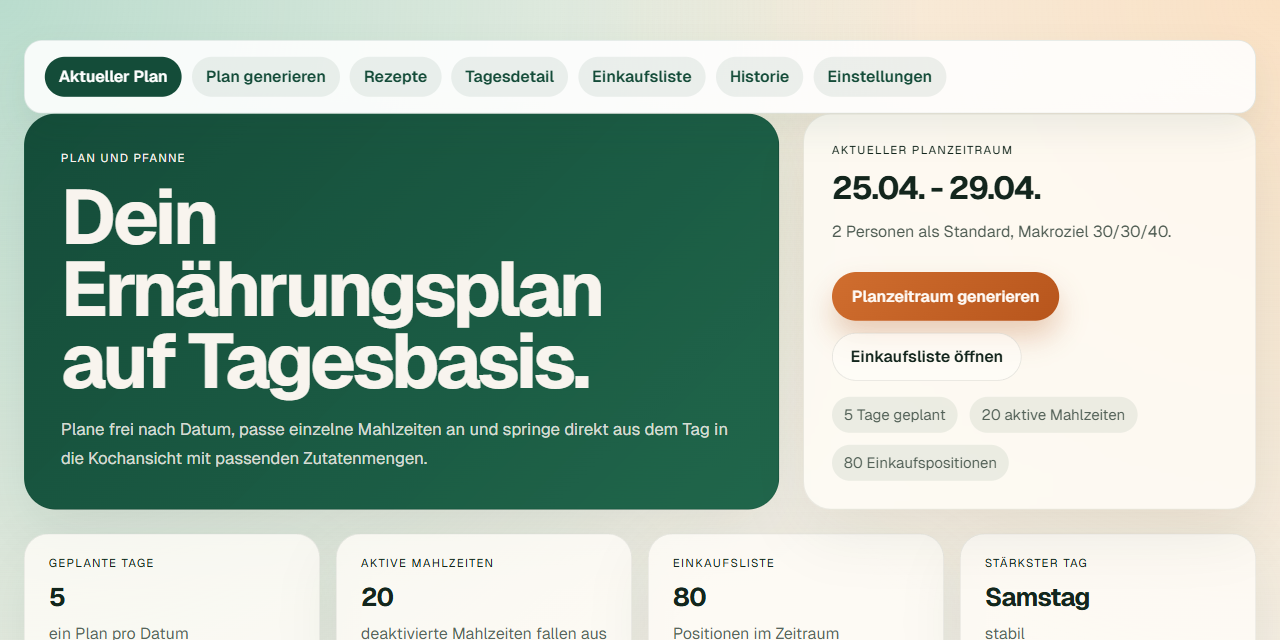
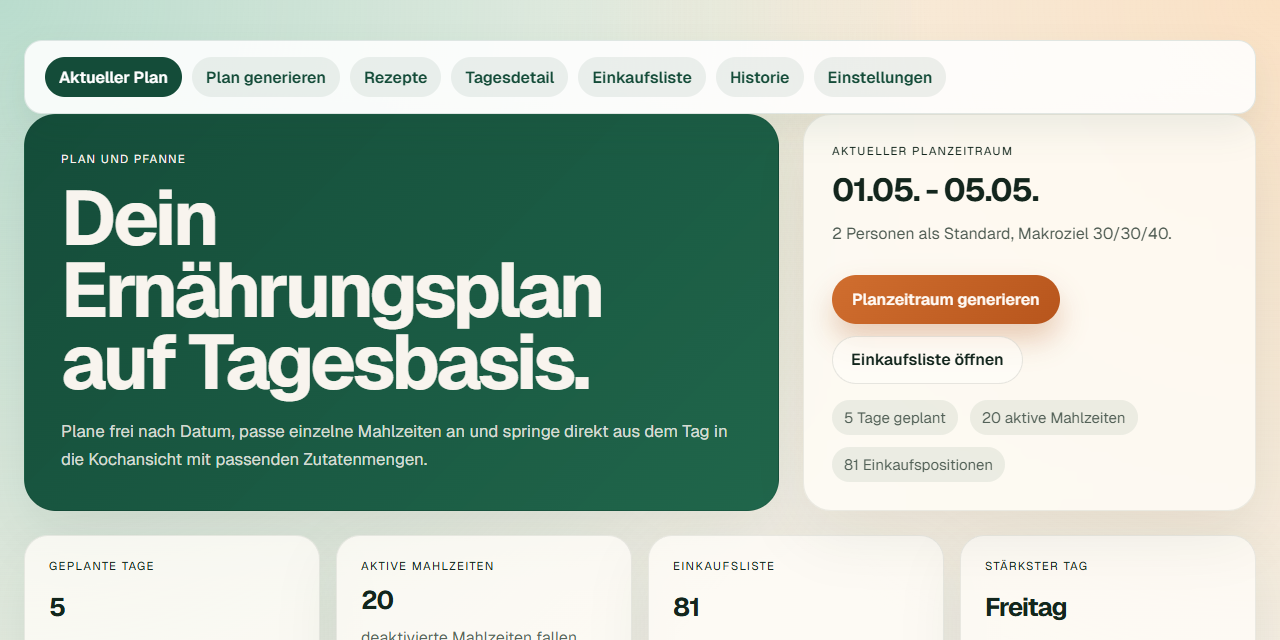
docs: aktualisiere README nach Rezept-UI

diff --git a/README.md b/README.md
@@ -6,7 +6,7 @@
 
 Die App unterstützt Dich dabei, glutenfreie Mahlzeiten über frei wählbare Datumsbereiche zu planen, einzelne Tage nachzubearbeiten und aus dem Plan heraus direkt zu kochen. Du erzeugst Tagespläne mit Frühstück, Mittagessen, Abendessen und optionalen Snacks, passt Personenzahlen oder Rezepte pro Mahlzeit an und steuerst, welche Gerichte in der Einkaufsliste landen.
 
-Der aktuelle Plan zeigt Tageskarten mit Kalorien, Makros und aktiven Mahlzeiten. Die Kochansicht skaliert Zutaten temporär auf die gewünschte Personenzahl, ohne den Tagesplan zu verändern. Die Rezeptseite verwaltet, welche Rezepte der Generator je Mahlzeitentyp verwenden darf, inklusive Suche, Details, Gewichtung und Zulassung. Die Einkaufsliste fasst Zutaten über einen Datumsbereich zusammen und berücksichtigt nur aktive, einkaufsrelevante Mahlzeiten.
+Der aktuelle Plan zeigt Tageskarten mit Kalorien, Makros und aktiven Mahlzeiten. Die Kochansicht skaliert Zutaten und Zubereitungsschritte temporär auf die gewünschte Personenzahl, ohne den Tagesplan zu verändern. Die Rezeptseite verwaltet, welche Rezepte der Generator je Mahlzeitentyp verwenden darf, inklusive Suche, Favoriten, Details, Gewichtung und Zulassung. Die Einkaufsliste fasst Zutaten über einen Datumsbereich zusammen und berücksichtigt nur aktive, einkaufsrelevante Mahlzeiten.
 
 ## Screenshots
 
@@ -25,17 +25,19 @@ Der aktuelle Plan zeigt Tageskarten mit Kalorien, Makros und aktiven Mahlzeiten.
 - Planung auf Tagesebene mit frei wählbaren Datumsbereichen
 - pro Datum maximal ein Plan
 - Personenzahl pro Plan und pro einzelner Mahlzeit
-- direkte Kochansicht aus dem Tagesdetail mit temporär skalierbarer Menge
+- direkte Kochansicht aus dem Tagesdetail mit temporär skalierbaren Zutaten und Zubereitungsschritten
 - Einkaufsliste aus einem gewählten Datumsbereich
-- Rezeptsuche, Rezeptdetails, Zulassung und Gewichtung je Mahlzeitentyp
+- 94 eingebaute glutenfreie Seed-Rezepte
+- Rezeptsuche, Favoriten, Rezeptdetails, Zulassung und Gewichtung je Mahlzeitentyp
 
 ## Was aktuell funktioniert
 
 - Aktueller Plan mit Tageskarten und Makroübersicht
 - Plan-Generator mit Startdatum, Enddatum, Personenzahl und Überschneidungswarnung
-- Tagesdetail mit Gerichtstausch, Personenzahl, Ausfall-Schalter, Einkaufslisten-Flag und zusätzlichen Snacks
-- Rezept-Kochansicht mit skalierten Zutaten und Zubereitungsschritten
-- Rezeptauswahl je Mahlzeitentyp mit Suche, Detailansicht und Gewichtung `selten`, `normal`, `häufig`
+- Tagesdetail mit Gerichtstausch, Personenzahl, Ausfall-Schalter, Einkaufslisten-Flag, zusätzlichen Snacks und einklappbaren Zusatzinfos
+- Rezept-Kochansicht mit skalierten Zutaten, mengenfähigen Zubereitungsschritten und kompakten Hinweis-Chips
+- Rezeptauswahl je Mahlzeitentyp mit Suche, Favoriten, Detailansicht und Gewichtung `selten`, `normal`, `häufig`
+- Rezeptübersicht mit Favoriten-Reiter, einklappbarer Anleitung und Umschaltung zwischen Rezeptbibliothek und Planungszulassung
 - Einkaufsliste mit Datumsbereich, aktiven Mahlzeiten und aggregierten Mengen
 - Historie als Tagesliste mit Kopieren historischer Zeiträume
 - Einstellungen für Standard-Personenzahl, Kalorienziel, Makros, Eiweißziel, Snacks, Zielmix, ausgeschlossene Zutaten und Löschen alter Pläne

diff --git a/KI-Wissen-Plan-und-Pfanne/03 Betrieb/Log.md b/KI-Wissen-Plan-und-Pfanne/03 Betrieb/Log.md
@@ -590,3 +590,12 @@
   `npm test` erfolgreich,
   `npm run lint` erfolgreich,
   `npm run build` erfolgreich.
+
+## [2026-04-30] dokumentation | README nach Rezept- und UI-Änderungen geprüft
+- `README.md` wurde gegen aktuellen Projektstatus, Produktlogik, Routen und letzte Log-Einträge geprüft.
+- Die README beschreibt jetzt 94 eingebaute glutenfreie Seed-Rezepte, Rezeptfavoriten, mengenfähige Zubereitungsschritte, Hinweis-Chips, die einklappbare Rezeptanleitung und das kompaktere Tagesdetail.
+- Die bestehenden README-Screenshots wurden aus dem aktuellen UI-Stand neu erzeugt und visuell geprüft.
+- Verifikation:
+  `npm test` erfolgreich,
+  `npm run lint` erfolgreich,
+  `npm run build` erfolgreich.
